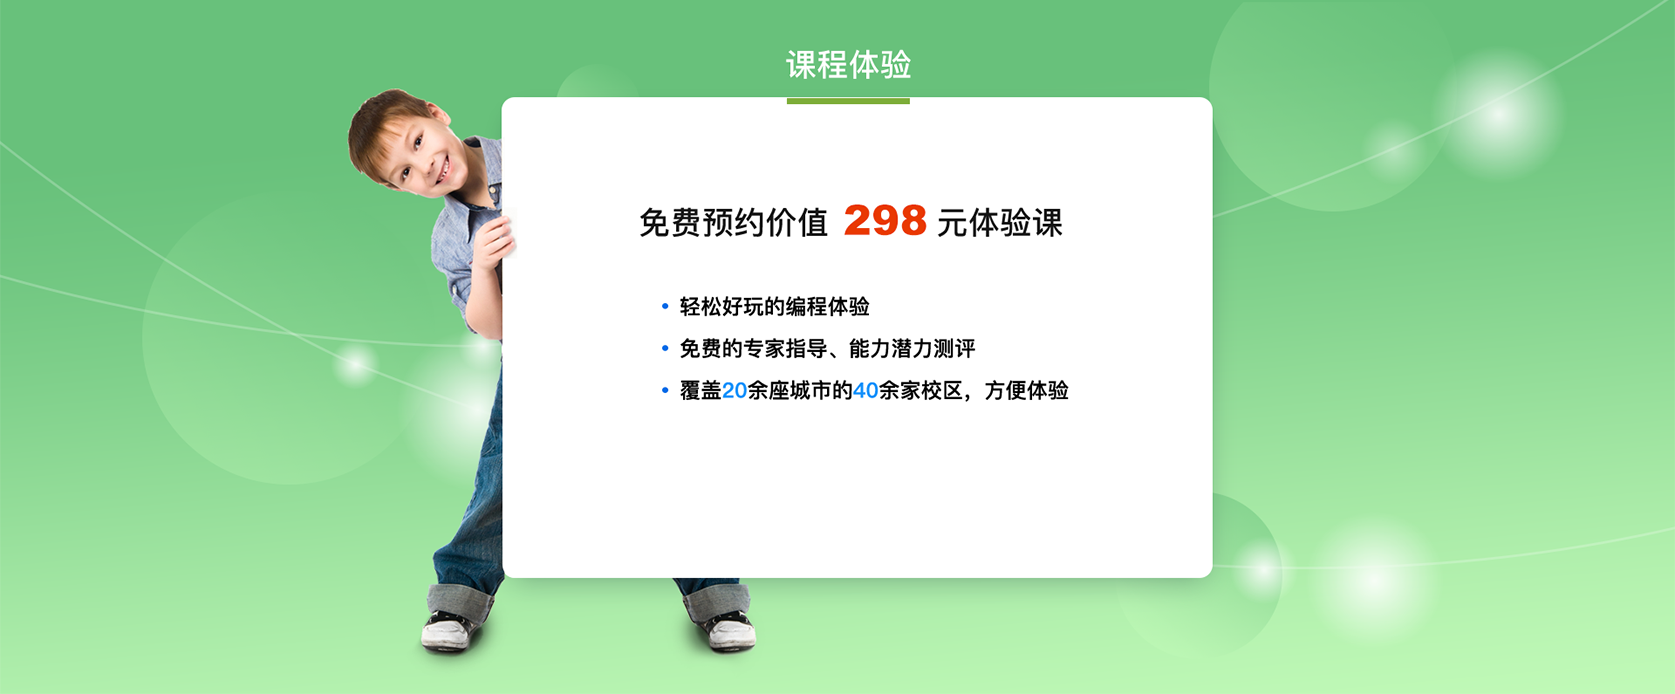
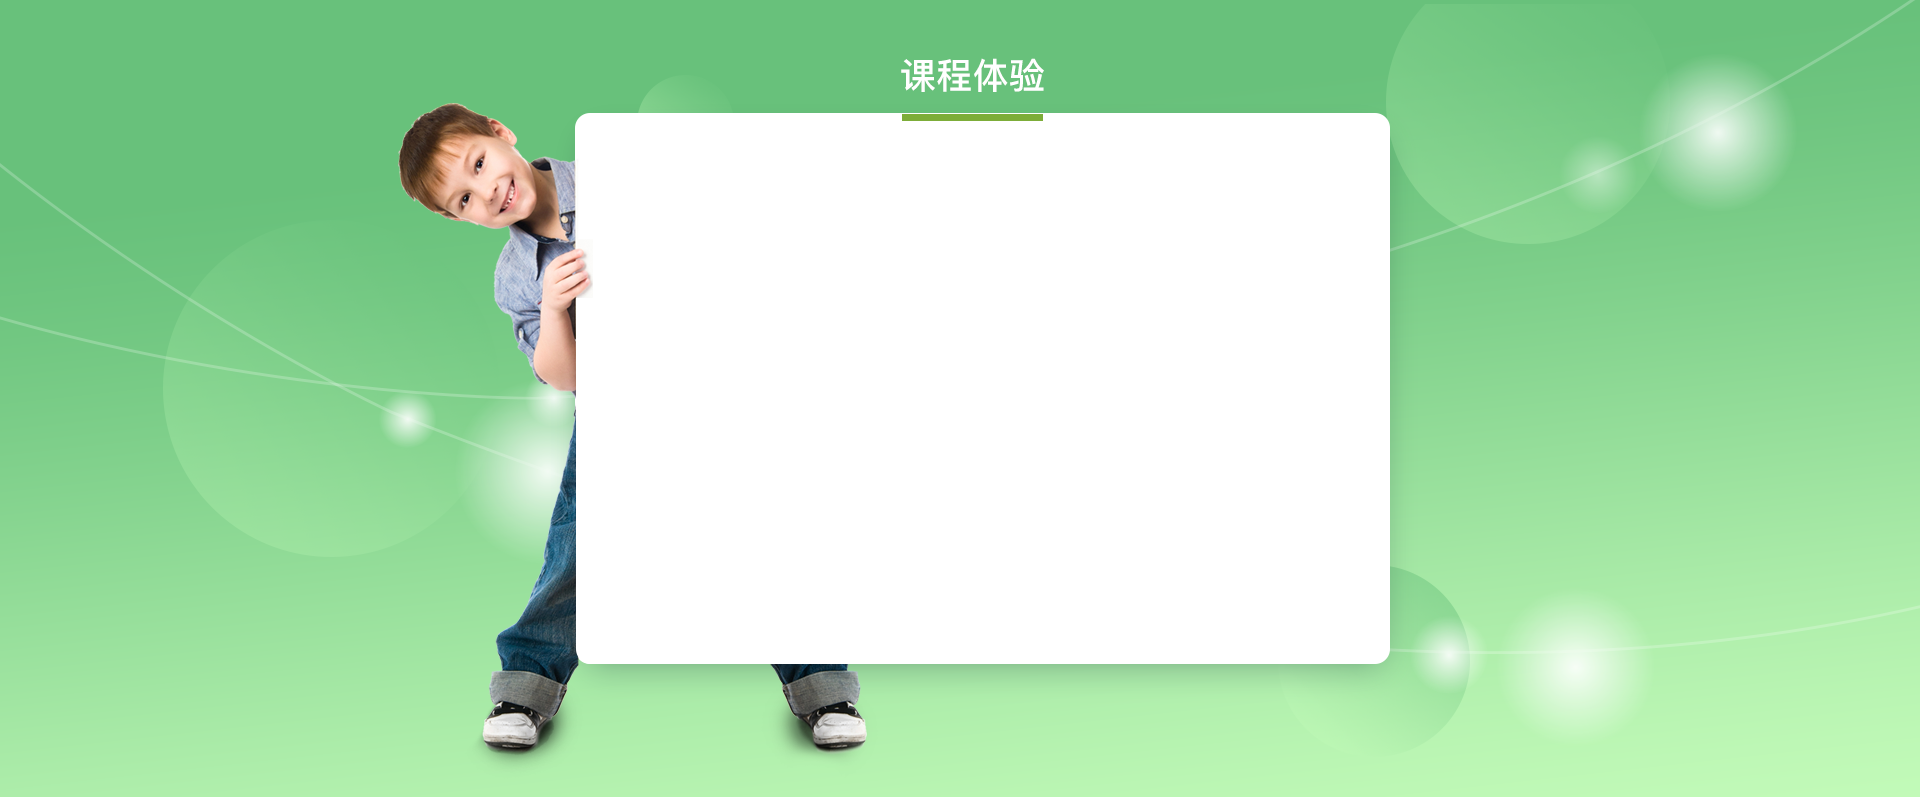
home页布局

diff --git a/src/pages/home/HomeView.js b/src/pages/home/HomeView.js
@@ -13,23 +13,39 @@ const LessonView = (props) => {
   return (
       <div className={styles.container}>
         <div className={styles['content-1']}>
-          <img className={styles.logo} src={Logo} alt="" />
+          <div className={styles.header}>
+            <img className={styles.logo} src={Logo} alt="" />
+            <div className={styles.nav}>
+              <div className={styles.item}>公开课</div>
+              <div className={styles.item}>师资力量</div>
+              <div className={styles.item}>线下课程</div>
+              <div className={styles.item}>课程体验</div>
+              <div className={styles.item}>线下课程</div>
+              <div className={styles.item}>课程体验</div>
+            </div>
+            <div className={styles['login-container']}>
+              <span>登录</span>
+              <span>注册</span>
+            </div>
+          </div>
           <div className={styles.feature}>
             <div className={styles.computer}>
-              <img className={styles['computer-icon']} src={Computer} alt="" />
-              <span>趣味图形化编程课</span>
+              <div className={styles['computer-icon-container']}>
+                <img className={styles['computer-icon']} src={Computer} alt="" />
+              </div>
+              <span className={styles.title}>趣味图形化编程课</span>
               <span>入门优选</span>
               <span>让编程像搭积木一样好玩</span>
             </div>
             <div className={styles.hand}>
               <img className={styles['hand-icon']} src={Hand} alt="" />
-              <span>Python游戏化编程课</span>
+              <span className={styles.title}>Python游戏化编程课</span>
               <span>列入高考科目</span>
               <span>学Python要从娃娃抓起</span>
             </div>
             <div className={styles.fly}>
               <img className={styles['fly-icon']} src={Fly} alt="" />
-              <span>1对1大师课</span>
+              <span className={styles.title}>1对1大师课</span>
               <span>沉浸式学习</span>
               <span>真正放飞想像力</span>
             </div>
@@ -37,7 +53,14 @@ const LessonView = (props) => {
         </div>
         <img className={styles['content-2']} src={Content} alt="" />
         <img className={styles['content-3']} src={Teacher} alt="" />
-        <img className={styles['content-4']} src={Lesson} alt="" />
+        {/* <img className={styles['content-4']} src={Lesson} alt="" /> */}
+        <div className={styles['content-4']}>
+          <span>免费预约价值<span>298</span>元体验课</span>
+          <span>轻松好玩的编程体验</span>
+          <span>免费的专家指导、能力潜力测评</span>
+          <span>覆盖20余座城市的40余家校区，方便体验</span>
+          <div className={styles.button}>免费预约体验课</div>
+        </div>
         <div className={styles.footer}>飞象章鱼有限责任公司  版权所有@2018-2022</div>
       </div>
     

diff --git a/src/pages/home/HomeView.less b/src/pages/home/HomeView.less
@@ -6,14 +6,94 @@
     height: 10rem ;
     background-image: url('img/content-1.png'); 
     background-size: 100%;
-    .logo{
-      display: inline-block;
-      width: 1.62rem;
-      margin: 0.12rem 0 0 3.6rem;
+    .header{
+      display: flex;
+      justify-content: space-around;
+      font-size: 0.18rem;
+      color: #fff;
+      padding: 0.12rem 3.6rem 0;
+      user-select: none;
+      .logo{
+        width: 1.62rem;
+        height: 0.56rem;
+      }
+      .nav{
+        display: flex;
+        align-items: center;
+        height: 0.18rem;
+        margin-top: 0.1rem;
+        .item{
+          padding: 0 0.2rem;
+          border-right: 1px solid #94bdff;
+        }
+        .item:last-child{
+          border-right: none;
+        }
+      }
+      .login-container{
+        display: flex;
+        justify-content: space-between;
+        width: 1rem;
+        margin-top: 0.05rem;
+      }
+    }
+    .feature{
+      display: flex;
+      justify-content: space-between;
+      width: 40%;
+      margin: 6.5rem auto;
+      font-size: 0.16rem;
+      .computer, .hand, .fly{
+        display: flex;
+        flex-direction: column;
+      }
+      .computer-icon-container{
+        display: flex;
+        justify-content: center;
+        align-items: center;
+        height: 0.88rem;
+      }
+      .computer-icon{
+        width: 0.95rem;
+      }
+      .hand-icon{
+        align-self: center;
+        width: 0.89rem;
+      }
+      .fly-icon{
+        align-self: center;
+        width: 0.88rem;
+      }
+      .title{
+        font-size: 0.24rem;
+        font-weight: bold;
+        margin: 0.3rem 0 0.15rem;
+      }
     }
   }
   .content-2, .content-3, .content-4{
     width: 100%;
+  }
+  .content-4{
+    display: flex;
+    flex-direction: column;
+    align-items: center;
+    width: 100%;
+    height: 7.9rem;
+    background-image: url('img/content-4.png');
+    background-size: 100% 100%;
+    padding-top: 2rem;
+    .button{
+      display: flex;
+      justify-content: center;
+      align-items: center;
+      width: 3.3rem;
+      height: 0.6rem;
+      background-color: #fb6115;
+      font-size: 0.3rem;
+      color: #fff;
+      border-radius: 0.15rem;
+    }
   }
 
   .footer{
